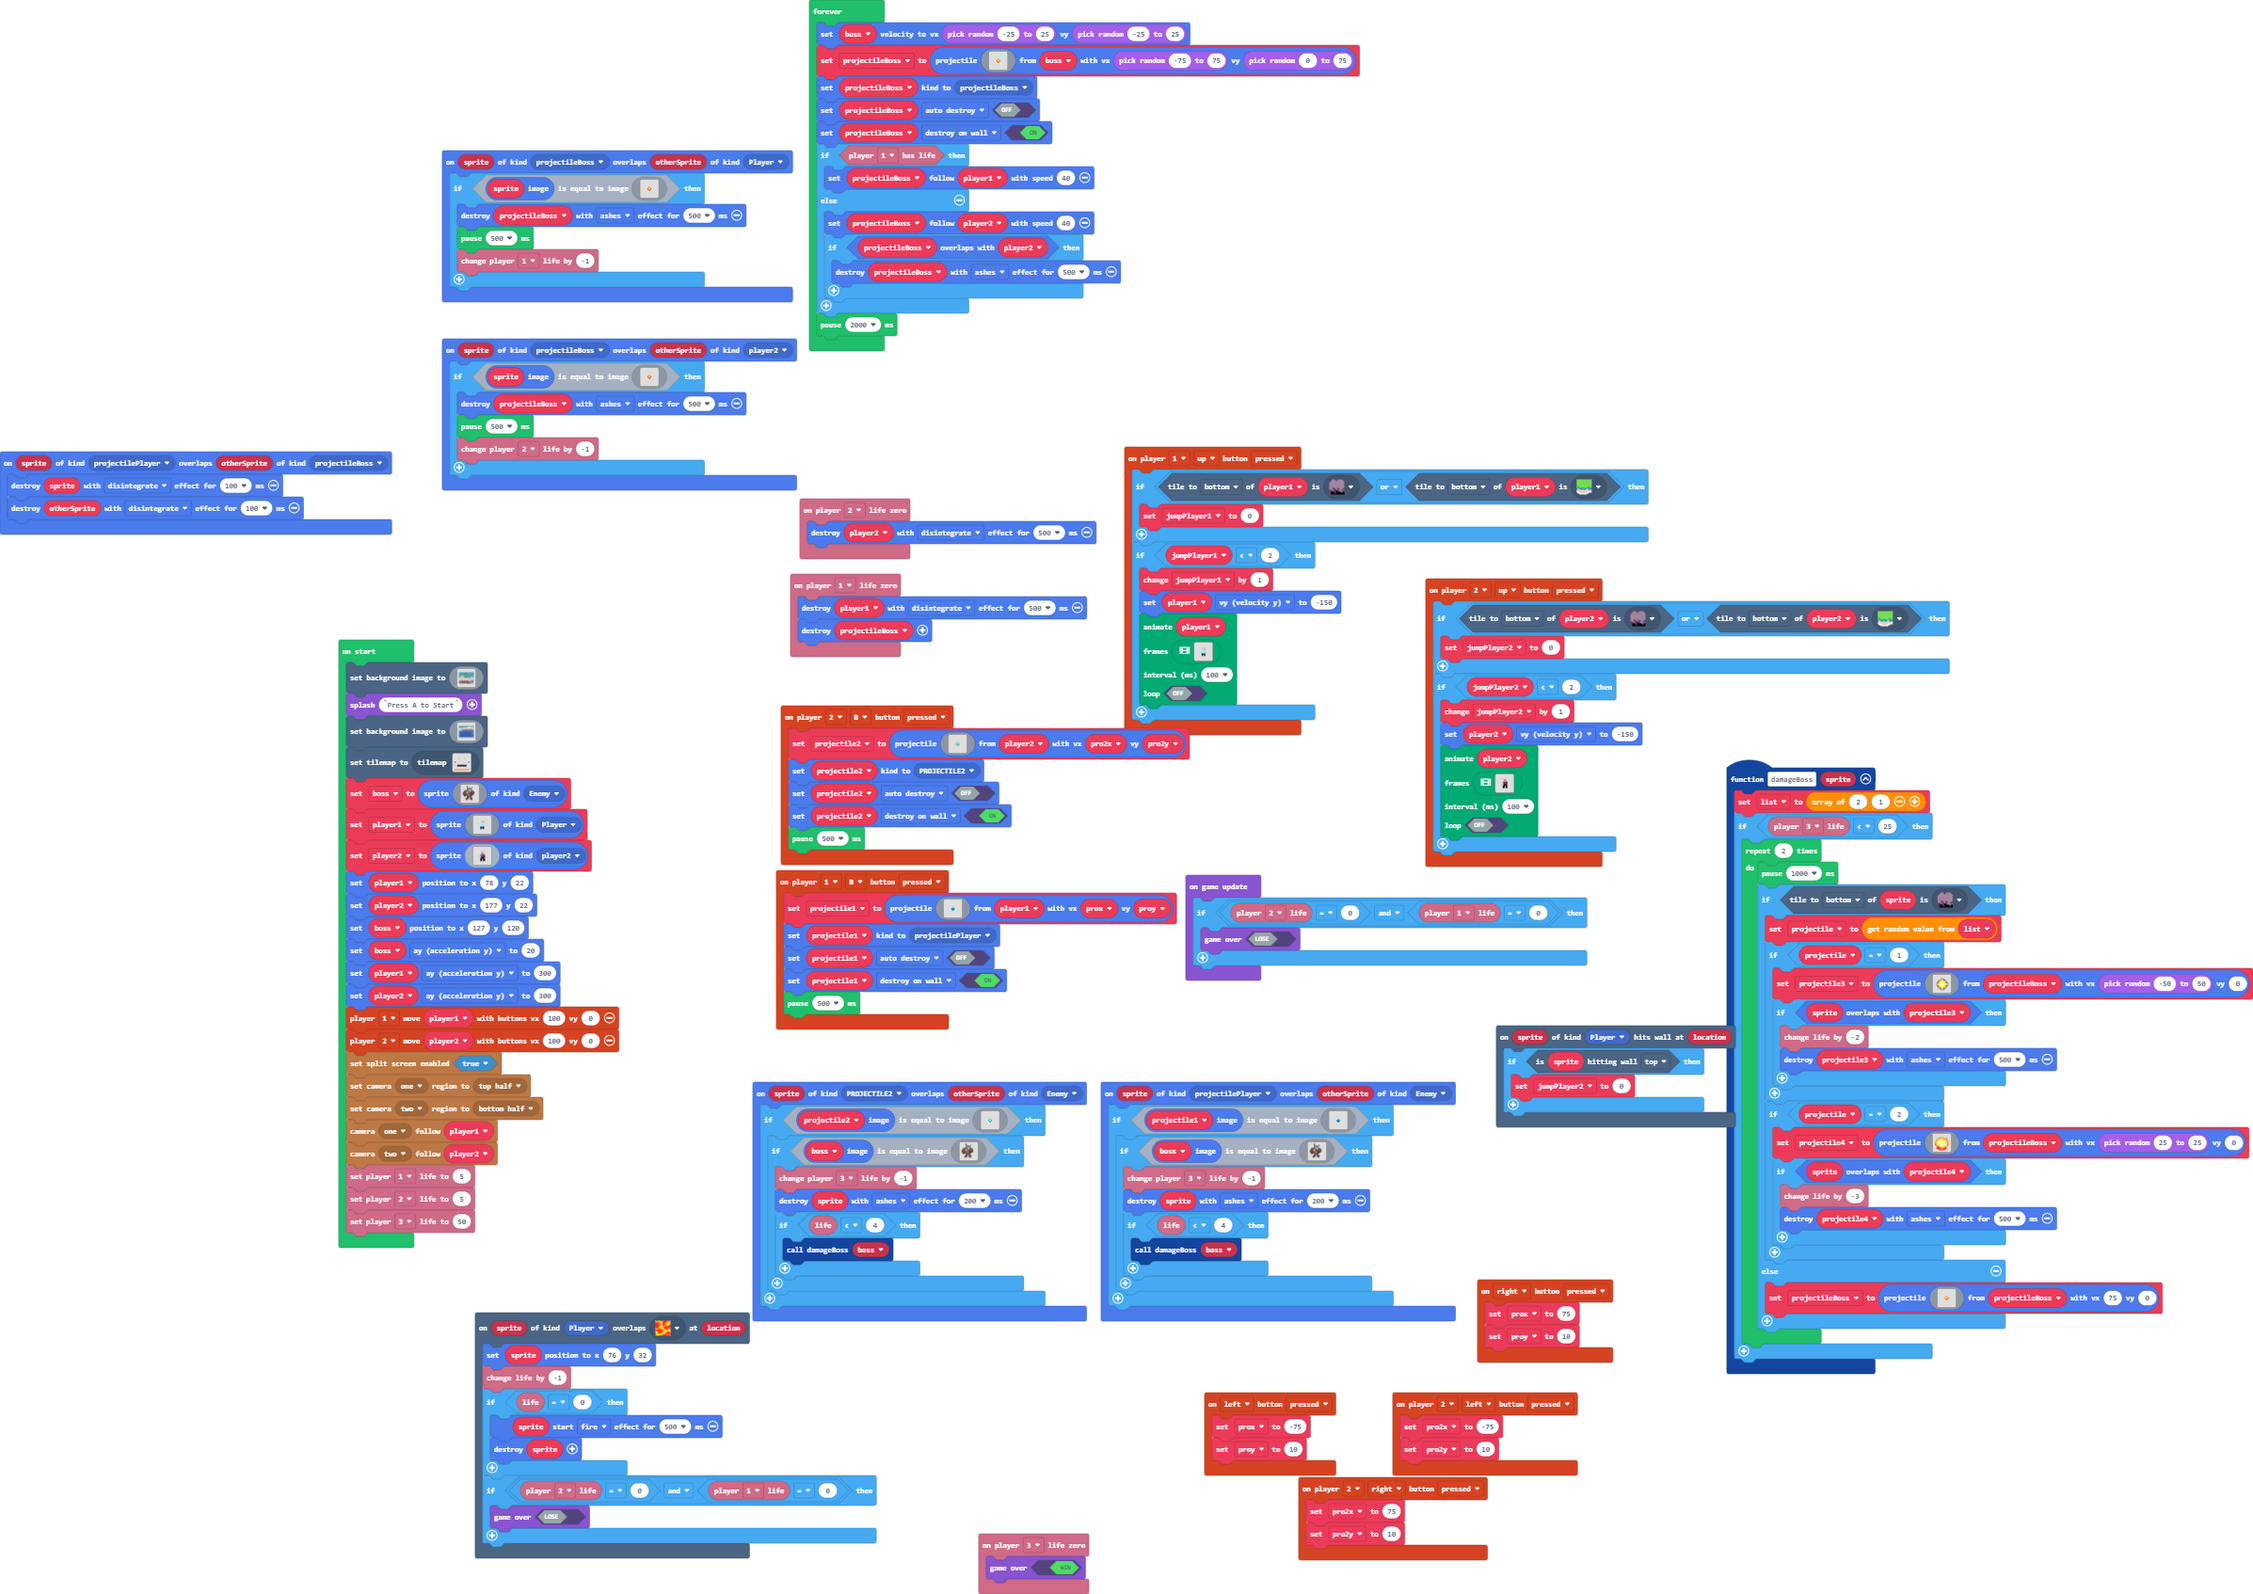
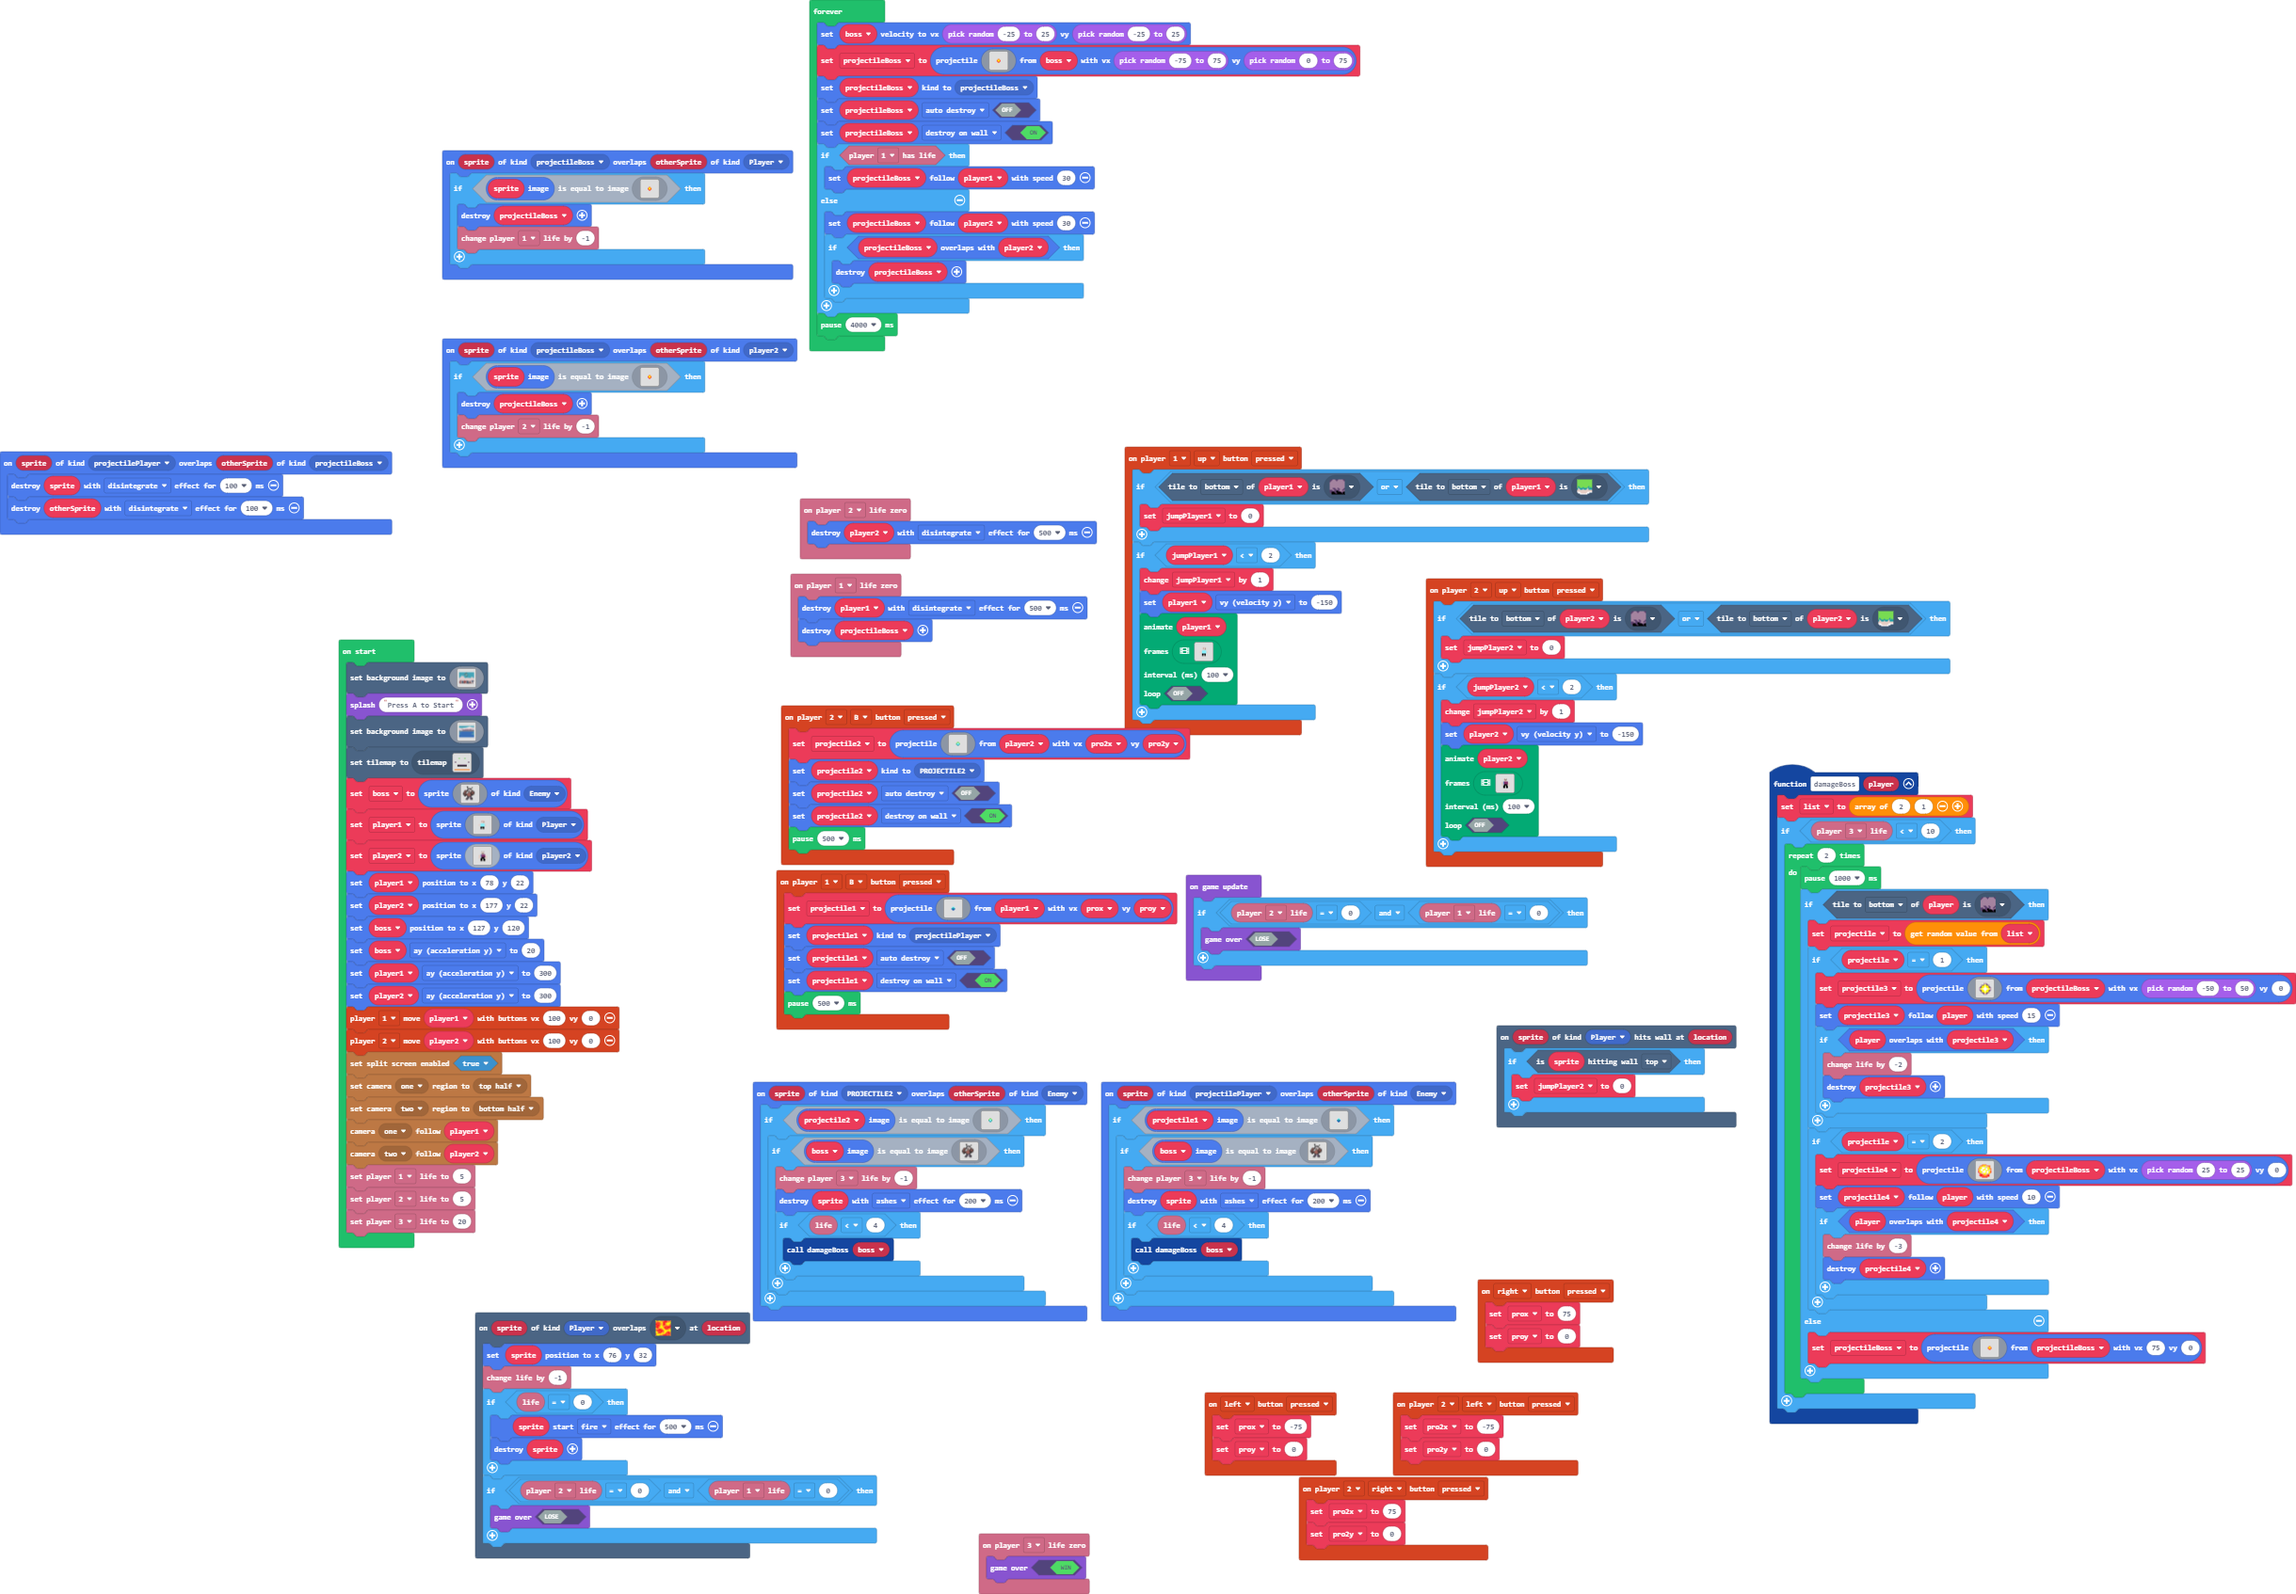
Restore '1/29/2024, 3:39:37 PM Update main.blocks, main.ts'

diff --git a/main.ts b/main.ts
@@ -52,8 +52,7 @@ sprites.onOverlap(SpriteKind.projectileBoss, SpriteKind.Player, function (sprite
         . . . . . . . . . . . . . . . . 
         . . . . . . . . . . . . . . . . 
         `)) {
-        sprites.destroy(projectileBoss, effects.ashes, 500)
-        pause(500)
+        sprites.destroy(projectileBoss)
         info.player1.changeLifeBy(-1)
     }
 })
@@ -256,8 +255,7 @@ sprites.onOverlap(SpriteKind.projectileBoss, SpriteKind.player2, function (sprit
         . . . . . . . . . . . . . . . . 
         . . . . . . . . . . . . . . . . 
         `)) {
-        sprites.destroy(projectileBoss, effects.ashes, 500)
-        pause(500)
+        sprites.destroy(projectileBoss)
         info.player2.changeLifeBy(-1)
     }
 })
@@ -332,7 +330,7 @@ sprites.onOverlap(SpriteKind.projectilePlayer, SpriteKind.Enemy, function (sprit
 })
 controller.left.onEvent(ControllerButtonEvent.Pressed, function () {
     prox = -75
-    proy = 10
+    proy = 0
 })
 sprites.onOverlap(SpriteKind.PROJECTILE2, SpriteKind.Enemy, function (sprite, otherSprite) {
     if (projectile2.image.equals(img`
@@ -585,18 +583,18 @@ controller.player2.onButtonEvent(ControllerButton.Up, ControllerButtonEvent.Pres
 })
 controller.right.onEvent(ControllerButtonEvent.Pressed, function () {
     prox = 75
-    proy = 10
+    proy = 0
 })
 controller.player2.onButtonEvent(ControllerButton.Right, ControllerButtonEvent.Pressed, function () {
     pro2x = 75
-    pro2y = 10
+    pro2y = 0
 })
-function damageBoss (sprite: Sprite) {
+function damageBoss (player2: Sprite) {
     list = [2, 1]
-    if (info.player3.life() < 25) {
+    if (info.player3.life() < 10) {
         for (let index = 0; index < 2; index++) {
             pause(1000)
-            if (sprite.tileKindAt(TileDirection.Bottom, sprites.builtin.oceanDepths0)) {
+            if (player2.tileKindAt(TileDirection.Bottom, sprites.builtin.oceanDepths0)) {
                 projectile = list._pickRandom()
                 if (projectile == 1) {
                     projectile3 = sprites.createProjectileFromSprite(img`
@@ -617,9 +615,10 @@ function damageBoss (sprite: Sprite) {
                         . . . . . . . b d b . . . . . . 
                         . . . . . . . . . . . . . . . . 
                         `, projectileBoss, randint(-50, 50), 0)
-                    if (sprite.overlapsWith(projectile3)) {
+                    projectile3.follow(player2, 15)
+                    if (player2.overlapsWith(projectile3)) {
                         info.changeLifeBy(-2)
-                        sprites.destroy(projectile3, effects.ashes, 500)
+                        sprites.destroy(projectile3)
                     }
                 }
                 if (projectile == 2) {
@@ -641,9 +640,10 @@ function damageBoss (sprite: Sprite) {
                         . . . 2 2 4 4 4 4 4 4 2 2 . . . 
                         . . . . . 2 2 2 2 2 2 . . . . . 
                         `, projectileBoss, randint(25, 25), 0)
-                    if (sprite.overlapsWith(projectile4)) {
+                    projectile4.follow(player2, 10)
+                    if (player2.overlapsWith(projectile4)) {
                         info.changeLifeBy(-3)
-                        sprites.destroy(projectile4, effects.ashes, 500)
+                        sprites.destroy(projectile4)
                     }
                 }
             } else {
@@ -685,7 +685,7 @@ info.player3.onLifeZero(function () {
 })
 controller.player2.onButtonEvent(ControllerButton.Left, ControllerButtonEvent.Pressed, function () {
     pro2x = -75
-    pro2y = 10
+    pro2y = 0
 })
 info.player1.onLifeZero(function () {
     sprites.destroy(player1, effects.disintegrate, 500)
@@ -1109,7 +1109,7 @@ splitScreen.cameraFollowSprite(splitScreen.Camera.Camera1, player1)
 splitScreen.cameraFollowSprite(splitScreen.Camera.Camera2, player2)
 info.player1.setLife(5)
 info.player2.setLife(5)
-info.player3.setLife(50)
+info.player3.setLife(20)
 game.onUpdate(function () {
     if (info.player2.life() == 0 && info.player1.life() == 0) {
         game.gameOver(false)
@@ -1139,12 +1139,12 @@ forever(function () {
     projectileBoss.setFlag(SpriteFlag.AutoDestroy, false)
     projectileBoss.setFlag(SpriteFlag.DestroyOnWall, true)
     if (info.player1.hasLife()) {
-        projectileBoss.follow(player1, 40)
+        projectileBoss.follow(player1, 30)
     } else {
-        projectileBoss.follow(player2, 40)
+        projectileBoss.follow(player2, 30)
         if (projectileBoss.overlapsWith(player2)) {
-            sprites.destroy(projectileBoss, effects.ashes, 500)
+            sprites.destroy(projectileBoss)
         }
     }
-    pause(2000)
+    pause(4000)
 })
